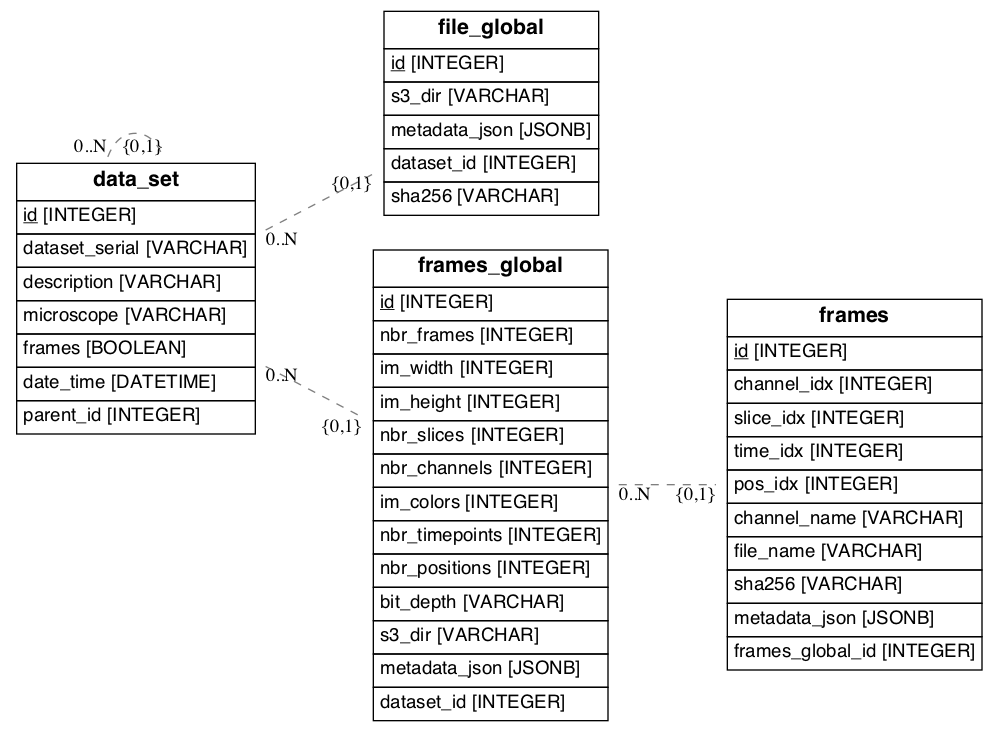
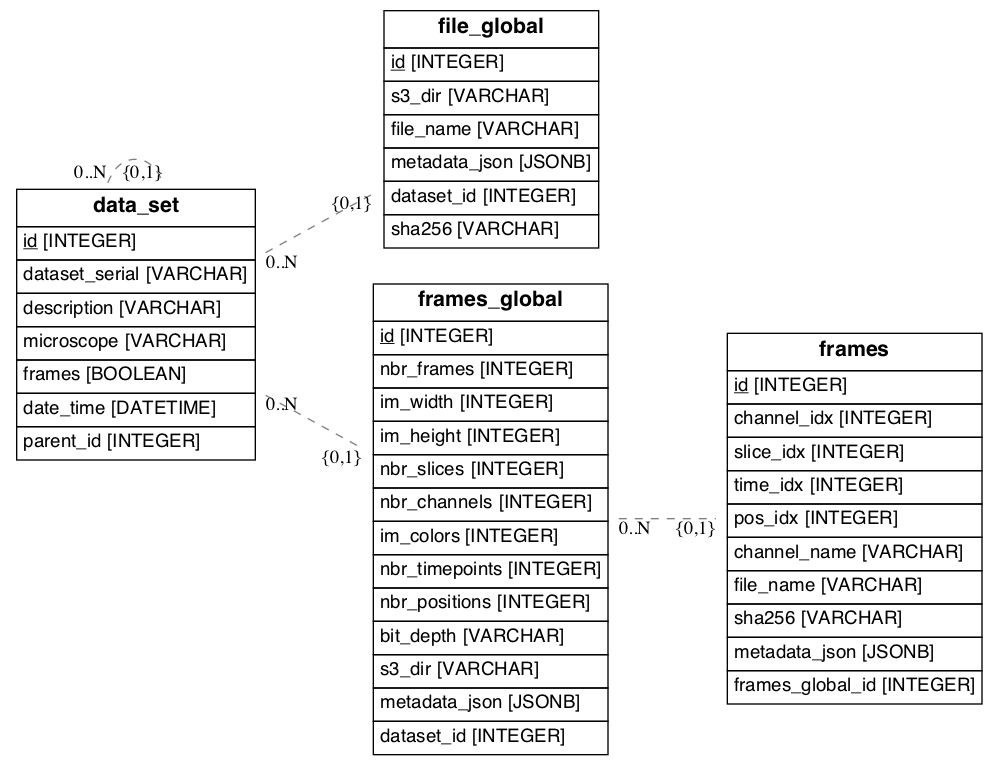
db migration to add file name and updated schema figure

Changed region(s): [[0.3109, 0.0, 0.995, 0.9932], [0.0, 0.1806, 0.3109, 0.6019]]

diff --git a/alembic/env.py b/alembic/env.py
@@ -2,11 +2,15 @@ from __future__ import with_statement
 from alembic import context
 import os
 from sqlalchemy import engine_from_config, pool
+import sys
 from logging.config import fileConfig
+
+# Add path to imaging_db
+sys.path.insert(0, os.path.realpath(os.path.join(os.path.dirname(__file__), '..')))
 
 import imaging_db.database.db_operations as db_ops
 import imaging_db.metadata.json_operations as json_ops
-
+import imaging_db.utils.db_utils as db_utils
 
 # Edit this depending on where your database credential file is stored
 # This assumes it's stored in dir above imagingDB
@@ -25,7 +29,7 @@ credentials_json = json_ops.read_json_file(
 
 config.set_main_option(
     'sqlalchemy.url',
-    db_ops.json_to_uri(credentials_json=credentials_json))
+    db_utils.json_to_uri(credentials_json=credentials_json))
 
 print("Using url:", config.get_main_option('sqlalchemy.url'))
 

diff --git a/alembic/versions/bae28d7da970_added_file_name_to_file_global.py b/alembic/versions/bae28d7da970_added_file_name_to_file_global.py
@@ -1,0 +1,28 @@
+"""added file name to file_global
+
+Revision ID: bae28d7da970
+Revises: 7a7422f19234
+Create Date: 2019-04-15 14:31:47.880557
+
+"""
+from alembic import op
+import sqlalchemy as sa
+
+
+# revision identifiers, used by Alembic.
+revision = 'bae28d7da970'
+down_revision = '7a7422f19234'
+branch_labels = None
+depends_on = None
+
+
+def upgrade():
+    # ### commands auto generated by Alembic - please adjust! ###
+    op.add_column('file_global', sa.Column('file_name', sa.String(), nullable=True))
+    # ### end Alembic commands ###
+
+
+def downgrade():
+    # ### commands auto generated by Alembic - please adjust! ###
+    op.drop_column('file_global', 'file_name')
+    # ### end Alembic commands ###

diff --git a/alembic/migration_checksums.py b/alembic/migration_checksums.py
@@ -5,6 +5,7 @@ import os
 
 import imaging_db.filestorage.s3_storage as s3_storage
 import imaging_db.database.db_operations as db_ops
+import imaging_db.utils.db_utils as db_utils
 import imaging_db.utils.meta_utils as meta_utils
 
 
@@ -34,7 +35,9 @@ def migrate_db(credentials_filename):
     dir_name = os.path.abspath(os.path.join('..'))
     dest_dir = os.path.join(dir_name, 'temp_downloads')
     os.makedirs(dest_dir, exist_ok=True)
-
+    credentials_str = db_utils.get_connection_str(
+        credentials_filename=credentials_filename,
+    )
     # Get files and compute checksums
     with db_ops.session_scope(credentials_str) as session:
         files = session.query(db_ops.FileGlobal)
